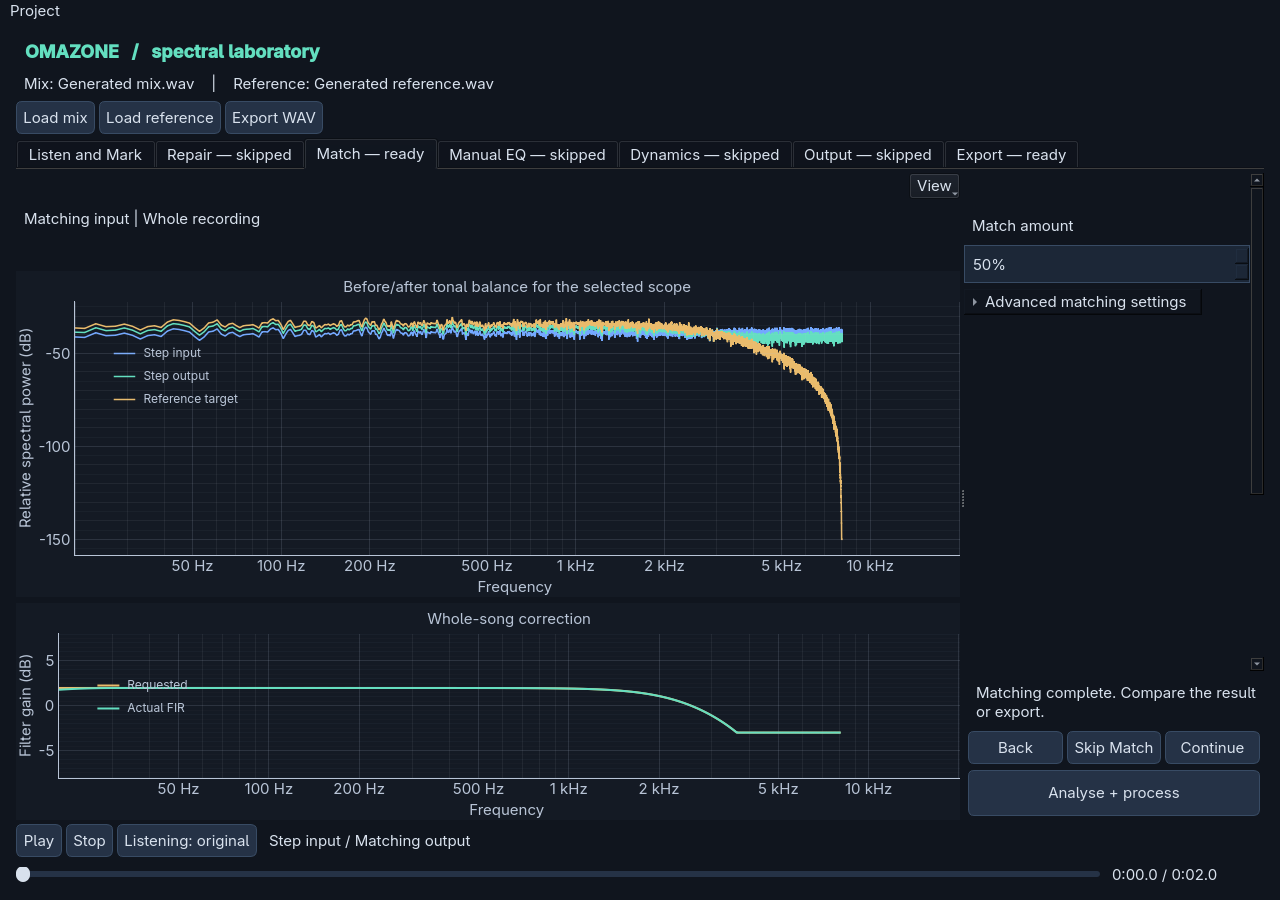
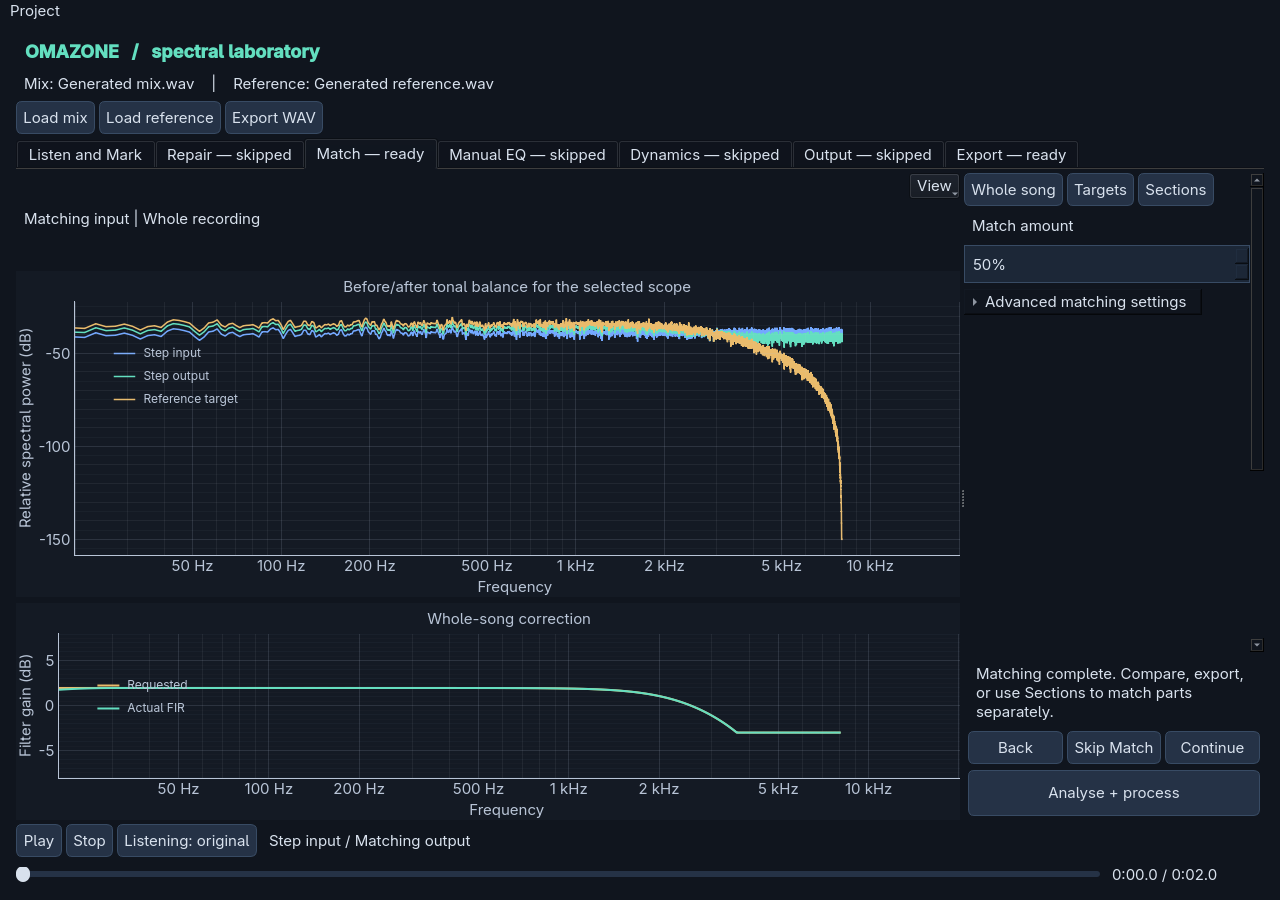
Make the Match step's three pages reachable and obvious (#76)
Selecting a passage and expecting it to be matched found a route that was
built, tested and invisible. The Match step has three pages - Whole song,
Targets, Sections - and per-section spectral matching has been unreachable
since the guided navigation landed.

The cause was one size policy: the sub-nav buttons were given
QSizePolicy.Ignored, which discards the size hint and collapsed them to zero
width at every window size. They reported themselves visible while rendering
nothing, which is why the published screenshots show no such control and why
match_mode could never become "sections" through the interface.

The test that should have caught it drove the buttons with .click(), which
succeeds on an invisible widget. It now requires them to occupy space on
screen first.

Beyond the fix:

- "Match" is now "Whole song", which is the distinction that was missed:
  matching read as song-wide because nothing said otherwise.
- The purpose line names the alternative route.
- "Match individual sections ->" appears when a passage is selected and a
  target exists, and opens Sections with that passage already in the form.
  Without a captured target the shortcut would dead-end on "Missing target
  for section", so it stays hidden until it can succeed.

The README already documented this workflow under tab names that no longer
exist; it now names the Match pages and the shortcut.

Changed region(s): [[0.75, 0.1867, 0.9688, 0.2489], [0.75, 0.7467, 0.9688, 0.8089], [0.9688, 0.7156, 1.0, 0.7467]]

diff --git a/tests/test_gui.py b/tests/test_gui.py
@@ -375,6 +375,9 @@ def test_reference_targets_two_sections_render_edit_and_export(tmp_path, monkeyp
         workbench.add_section()
         assert len(workbench.sections) == 2
         assert len(window.waveform.section_items) > 0
+        # Section matching is a real mode, not just a table of rows. Until the
+        # Match step could reach this page, nothing in the interface could set it.
+        assert window.project.match_mode == "sections"
         workbench.render_button.click()
         wait()
         assert len(window.section_result.curves) == 2
@@ -1743,6 +1746,15 @@ def test_secondary_pages_belong_to_match_and_navigate_with_it(tmp_path):
         # The Match step must actually reach its own pages, or target capture
         # and section matching become unreachable.
         window.views.setStep("match")
+        # A programmatic click succeeds on an invisible widget, so require the
+        # buttons to actually occupy space before trusting them. These collapsed
+        # to zero width and left section matching with no visible way in.
+        for key in ("match", "reference", "sections"):
+            button = getattr(window, f"match_subnav_{key}")
+            assert button.isVisible()
+            assert button.width() > 0, f"the {key} sub-nav button is not on screen"
+        assert window.match_subnav_match.text() == "Whole song"
+
         window.match_subnav_reference.click()
         assert window.views.currentStep() == "reference"
         assert window.workspace.reference_pane.isVisible()
@@ -1754,6 +1766,71 @@ def test_secondary_pages_belong_to_match_and_navigate_with_it(tmp_path):
         assert not window.match_subnav_sections.isChecked()
     finally:
         window.close()
+
+
+def test_match_offers_a_route_to_sections_when_it_can_succeed(tmp_path):
+    """Selecting a passage is the moment a learner expects per-section matching.
+
+    The shortcut must appear then, carry the selection with it, and stay hidden
+    when it would dead-end on a missing target.
+    """
+    app = QtWidgets.QApplication.instance() or QtWidgets.QApplication([])
+    window = Window()
+    rate = 16000
+    mix = np.random.default_rng(311).normal(0, 0.1, (rate * 3, 2))
+    reference = np.random.default_rng(312).normal(0, 0.1, (rate * 3, 2))
+    sf.write(tmp_path / "mix.wav", mix, rate, subtype="DOUBLE")
+    sf.write(tmp_path / "ref.wav", reference, rate, subtype="DOUBLE")
+    link = window.match_sections_link
+    try:
+        window.show()
+        window.loaded("source", load_audio(tmp_path / "mix.wav"))
+        for _ in range(4):
+            app.processEvents()
+        window.views.setStep("match")
+        # No selection and no captured target: nothing to offer.
+        assert not link.isVisible()
+
+        window.loaded("reference", load_audio(tmp_path / "ref.wav"))
+        for _ in range(4):
+            app.processEvents()
+        window.waveform.set_selection(SampleRegion(0, rate))
+        for _ in range(4):
+            app.processEvents()
+        # A selection alone is not enough; a section needs a target to reference.
+        assert not link.isVisible()
+
+        window.views.setStep("reference")
+        workbench = window.section_workbench
+        workbench.reference_waveform.set_selection(SampleRegion(0, rate))
+        workbench.target_name.setText("Clean")
+        workbench.capture_button.click()
+        deadline = time.monotonic() + 15
+        while window.worker is not None and time.monotonic() < deadline:
+            app.processEvents()
+            time.sleep(0.005)
+        assert len(workbench.targets) == 1
+
+        window.views.setStep("match")
+        for _ in range(4):
+            app.processEvents()
+        assert link.isVisible()
+
+        link.click()
+        for _ in range(4):
+            app.processEvents()
+        assert window.views.currentStep() == "sections"
+        # The passage comes with you, so it is not selected a second time.
+        assert workbench.start.value() == pytest.approx(0.0)
+        assert workbench.end.value() == pytest.approx(1.0)
+        assert workbench.name.text() == "Section 1"
+        workbench.add_section()
+        assert len(workbench.sections) == 1
+        assert window.project.match_mode == "sections"
+    finally:
+        window.project.mark_saved()
+        window.close()
+        app.processEvents()
 
 
 def test_narrow_window_keeps_back_and_continue_and_no_horizontal_scrolling(tmp_path):
@@ -2580,6 +2657,43 @@ def test_silence_reports_no_loudness_rather_than_a_floor(tmp_path):
         assert all(text.endswith("| —") for text in readings), readings
         assert not any("LUFS" in text for text in readings), readings
         assert all("dBFS sample peak" in text for text in readings), readings
+    finally:
+        window.project.mark_saved()
+        window.close()
+        app.processEvents()
+
+
+def test_matching_purpose_line_names_the_section_route(tmp_path):
+    """The step has to say what else it can do, not only what is missing."""
+    app = QtWidgets.QApplication.instance() or QtWidgets.QApplication([])
+    window = Window()
+    rate = 16000
+    sf.write(
+        tmp_path / "m.wav",
+        np.random.default_rng(313).normal(0, 0.1, (rate, 2)),
+        rate,
+        subtype="DOUBLE",
+    )
+    sf.write(
+        tmp_path / "r.wav",
+        np.random.default_rng(314).normal(0, 0.1, (rate, 2)),
+        rate,
+        subtype="DOUBLE",
+    )
+    try:
+        window.show()
+        window.loaded("source", load_audio(tmp_path / "m.wav"))
+        for _ in range(4):
+            app.processEvents()
+        window.loaded("reference", load_audio(tmp_path / "r.wav"))
+        for _ in range(4):
+            app.processEvents()
+        window.views.setStep("match")
+        for _ in range(4):
+            app.processEvents()
+        text = window.views.action_label.text()
+        assert "whole song" in text, text
+        assert "Sections" in text, text
     finally:
         window.project.mark_saved()
         window.close()

diff --git a/src/omazone/gui.py b/src/omazone/gui.py
@@ -449,22 +449,38 @@ class Window(ProjectController, QtWidgets.QMainWindow):
         match_subnav_layout = QtWidgets.QHBoxLayout(self.match_subnav)
         match_subnav_layout.setContentsMargins(0, 0, 0, 0)
         match_subnav_layout.setSpacing(4)
+        # Whole song first, because that distinction was the one learners
+        # missed: with only "Match" on screen, matching reads as song-wide.
         for title, key, tip in (
-            ("Match", "match", "Whole-song matching settings"),
+            ("Whole song", "match", "Match the whole recording in one correction"),
             ("Targets", "reference", "Capture and manage reference targets"),
             ("Sections", "sections", "Match the mix in named sections"),
         ):
             button = QtWidgets.QPushButton(title)
             button.setCheckable(True)
             button.setToolTip(tip)
+            # Preferred, not Ignored: Ignored discards the size hint and
+            # collapsed these to zero width, leaving per-section matching with
+            # no visible way to reach it.
             button.setSizePolicy(
-                QtWidgets.QSizePolicy.Policy.Ignored, QtWidgets.QSizePolicy.Policy.Fixed
+                QtWidgets.QSizePolicy.Policy.Preferred, QtWidgets.QSizePolicy.Policy.Fixed
             )
             button.clicked.connect(lambda _=False, k=key: self.views.setStep(k))
             match_subnav_layout.addWidget(button)
             setattr(self, f"match_subnav_{key}", button)
         match_subnav_layout.addStretch(1)
         match_layout.addWidget(self.match_subnav)
+        self.match_sections_link = QtWidgets.QToolButton()
+        self.match_sections_link.setText("Match individual sections →")
+        self.match_sections_link.setToolButtonStyle(
+            QtCore.Qt.ToolButtonStyle.ToolButtonTextBesideIcon
+        )
+        self.match_sections_link.setArrowType(QtCore.Qt.ArrowType.RightArrow)
+        self.match_sections_link.setToolTip(
+            "Go to Sections and start a section from the passage you have selected."
+        )
+        self.match_sections_link.clicked.connect(self.go_to_sections)
+        match_layout.addWidget(self.match_sections_link)
         match_layout.addWidget(self.mastering_controls)
         match_layout.addStretch(1)
         for index in range(self.views.stack.count()):
@@ -868,6 +884,15 @@ class Window(ProjectController, QtWidgets.QMainWindow):
             self.clipping_inspector.report is not None
             and bool(self.clipping_inspector.report.candidates)
         )
+        # Offer the shortcut only when it can actually succeed: a passage to
+        # carry over, and a captured target for the section to reference. With
+        # no target the shortcut would dead-end on "Missing target for section".
+        self.match_sections_link.setVisible(
+            self.source is not None
+            and self.waveform.selection is not None
+            and bool(self.section_workbench.targets)
+            and not self.project.stages["match"].bypassed
+        )
         if self.worker is not None:
             message = self.status.text()
         elif self.source is None:
@@ -927,18 +952,30 @@ class Window(ProjectController, QtWidgets.QMainWindow):
             if workflow.matching_analysis is AnalysisState.RETAINED and stage.comparison_available:
                 message = "Matching rendered with analysis retained from an earlier input."
             elif stage.state is RenderState.READY:
-                message = "Matching complete. Compare the result or export."
+                message = (
+                    "Matching complete. Compare, export, or use Sections to match parts separately."
+                )
             elif self.project.match_mode == "none" and not self.project.stages["match"].bypassed:
                 message = (
                     "Matching is optional. Add a reference to analyse it; otherwise it passes unchanged."
                     if self.reference is None and self.project.reference_target is None
-                    else "Mix and reference ready. Analyse Matching, or leave it unchanged."
+                    else "Mix and reference ready. Analyse the whole song, or use Sections "
+                    "to match parts separately."
                 )
             else:
                 message = stage.reason
         else:
             message = "Mix and reference ready."
         self.views.action_label.setText(message)
+
+    def go_to_sections(self):
+        """Open Mix sections with the selected passage already in the form.
+
+        Arriving at an empty form would mean selecting the passage a second
+        time, which is the friction that hides this route in the first place.
+        """
+        self.views.setStep("sections")
+        self.section_workbench.use_mix_selection()
 
     def toggle_details(self, visible):
         self.details_panel.setVisible(visible)

diff --git a/tests/test_workspace.py b/tests/test_workspace.py
@@ -269,9 +269,12 @@ def test_file_loading_never_changes_tool_or_view_and_reference_keeps_mix_context
         )
         window.loaded("reference", (reference, rate, analyse(reference, rate), "reference"))
         assert window.views.currentStep() == "match"
+        # The wording names the alternative route, because "Analyse Matching"
+        # read as though whole-song matching were the only kind.
         assert (
             window.views.action_label.text()
-            == "Mix and reference ready. Analyse Matching, or leave it unchanged."
+            == "Mix and reference ready. Analyse the whole song, or use Sections "
+            "to match parts separately."
         )
         assert window.process_button.isEnabled()
 

diff --git a/README.md b/README.md
@@ -220,8 +220,8 @@ than reducing the plot area.
 | Step or view | Inspector defaults | Optional details |
 | --- | --- | --- |
 | Regions | Passage name and saved-region list | Precise times and sample counts |
-| Reference targets | Target name and short library list | Import/export/remove and precise bounds |
-| Mix sections | Compact section list, target, and amount | Bounds, smoothing, limits, transition, removal |
+| Targets (Match page) | Target name and short library list | Import/export/remove and precise bounds |
+| Sections (Match page) | Compact section list, target, and amount | Bounds, smoothing, limits, transition, removal |
 | Clipping inspection | Result summary and candidate review | Detector/repair parameters and measurements |
 
 ![Regions with a large waveform and compact naming inspector](docs/images/omazone-shared-regions.png)
@@ -229,7 +229,7 @@ than reducing the plot area.
 The workspace stays beside a compact task inspector on wider windows, with
 bounded controls below on narrow ones. Use **Waveform**, **Spectrum**, or
 **Both** to inspect the same passage while working in Matching, Regions, Reference
-targets, Mix sections, or Clipping inspection. Drag the splitter between the
+targets, Sections, or Clipping inspection. Drag the splitter between the
 viewer and controls to give either more space; inspector contents scroll rather than hiding
 the song. Matching prioritises its frequency spectrum and filter response, with
 compact settings beside the plots on wider windows. Other tools retain the
@@ -276,15 +276,17 @@ chosen view. On Matching, its compact **View** menu offers
 Waveform/Spectrum/Both, original/input/output signals, and the optional overview.
 Looping and returning to whole-recording playback are also available in this menu.
 Matching starts with "Load a mix", then "Mix loaded. Add a reference",
-then "Mix and reference ready". Reference targets open only when you choose that
-tool; loading a reference does not mean you need to capture named targets.
+then "Mix and reference ready". The Match step offers three pages — **Whole
+song**, **Targets**, **Sections** — so you can capture named targets and match
+individual parts of the song. Loading a reference does not mean you need to
+capture named targets.
 
 The plots take most of the Matching workspace. **Match amount** is shown in a
 compact panel, with smoothing and gain limits under **Advanced matching settings**.
 At narrower widths, controls become a strip below the plots. Basic matching
 playback across all tools is Play/Stop, A/B, seeking, and time; looping and view
 options are in **View**. The tabs and primary action bar do not scroll. **Analyse + process** stays visible
-on Matching; **Render sections** stays visible on Mix sections. Settings may scroll
+on Matching; **Render sections** stays visible on Sections. Settings may scroll
 when the lower panel is small. **View → Show measurements and status** expands the footer
 details when you need them. Opening a saved project still deliberately restores
 its saved tool and view preferences.
@@ -372,7 +374,17 @@ number of display points.
 
 ## Match metal and clean sections separately
 
-Use different targets when a song contains passages with different tonal goals.
+Matching is not only whole-song. The Match step has three pages, chosen at the
+top of its panel:
+
+| Page | Use it for |
+| --- | --- |
+| **Whole song** | One correction applied to the entire recording |
+| **Targets** | Capturing named reference passages |
+| **Sections** | Different settings for different parts of the song |
+
+Use **Analyse + process** on *Whole song* for a single correction everywhere. Use
+**Sections** when a song contains passages with different tonal goals.
 Each mix section is analysed independently against its assigned target; the
 whole-song spectrum is not used to design its correction.
 Its inspector shows the compact section list, name, assigned target, and amount.
@@ -381,13 +393,17 @@ are under **Section settings and bounds**. Add/Update and Render actions stay fi
 
 ![Mix-section assignment inspector beside a large waveform with named passages](docs/images/omazone-shared-sections.png)
 
-1. Load a reference and open **Reference targets**. Shift+drag its metal passage,
-   enter a target name such as `Metal`, and click **Capture target**.
+1. Load a reference and open **Targets** on the Match step. Shift+drag its metal
+   passage, enter a target name such as `Metal`, and click **Capture target**.
 2. Select its clean passage and capture `Clean`. You can also capture targets
    from different reference files; earlier targets remain in the library.
-3. Load your mix. In **Regions** or the shared waveform, select the metal passage.
-4. Open **Mix sections**, click **Use selected passage**, name the section, choose
+3. Load your mix and select the metal passage in the shared waveform.
+4. Open **Sections**, click **Use selected passage**, name the section, choose
    `Metal`, set its amount/smoothing/gain limits, and click **Add section**.
+
+   With a passage already selected, Match offers **Match individual sections →**
+   instead, which opens **Sections** with that passage already in the form. It
+   appears only when it can work, so you need a selection and a captured target.
 5. Repeat for the clean passage with the `Clean` target. Assignments cannot overlap.
 6. Choose a **Transition** duration and click **Render sections**. This produces
    one complete preview and exportable file, keeping the original duration.
@@ -398,7 +414,7 @@ are under **Section settings and bounds**. Add/Update and Render actions stay fi
 To change an assignment, select its row, edit the fields, and click **Update
 section**. **Inspect EQ** and **Render sections** also apply pending edits to the
 selected row. Edits invalidate the old preview and export until you render again.
-The controls below the tabs and **Analyse + process** still perform whole-song
+**Analyse + process** on the *Whole song* page still performs whole-song
 matching; section settings live in the section table and editor.
 
 Coloured named regions appear on the mix waveform. Dashed yellow windows show
@@ -423,8 +439,8 @@ longer representative passages generally make better tonal targets.
 
 Section assignments and settings are saved in the project recipe. Loading a new
 mix starts a new session but retains the captured target library. Preview level
-matching uses whole-file RMS, not separate per-section
-loudness normalisation. Section matching controls tonal balance, not dynamics or
+matching uses whole-file [loudness](docs/loudness.md), not separate per-section
+normalisation. Section matching controls tonal balance, not dynamics or
 vocal/instrument balance.
 
 ## Try clipping repair

diff --git a/docs/workflow.md b/docs/workflow.md
@@ -20,6 +20,10 @@ than several.
 | Load/listen and mark | What am I hearing, and where does the arrangement change? | Song waveform and named regions |
 | Repair, optional | Is damage in the recording suitable for repair? | Zoomed waveform, candidates, original/repair overlays |
 | Match, optional | Would a reference help the broad tonal balance? | Selected mix passage, reference context, spectrum and correction |
+
+Match is one step with three pages: **Whole song** for a single correction, **Targets**
+for capturing named reference passages, and **Sections** when different parts of the
+song need different targets and amounts.
 | Manual EQ, optional | What still sounds wrong to me? | Selected passage spectrum/response and its position in the song |
 | Compression, optional | Are attacks or level changes too uneven? | Waveform, detector and gain-reduction history |
 | Output | Is the result at a useful level without introducing overload? | Song context plus original/pre-output/final sample peaks; LUFS/true peak follow |
